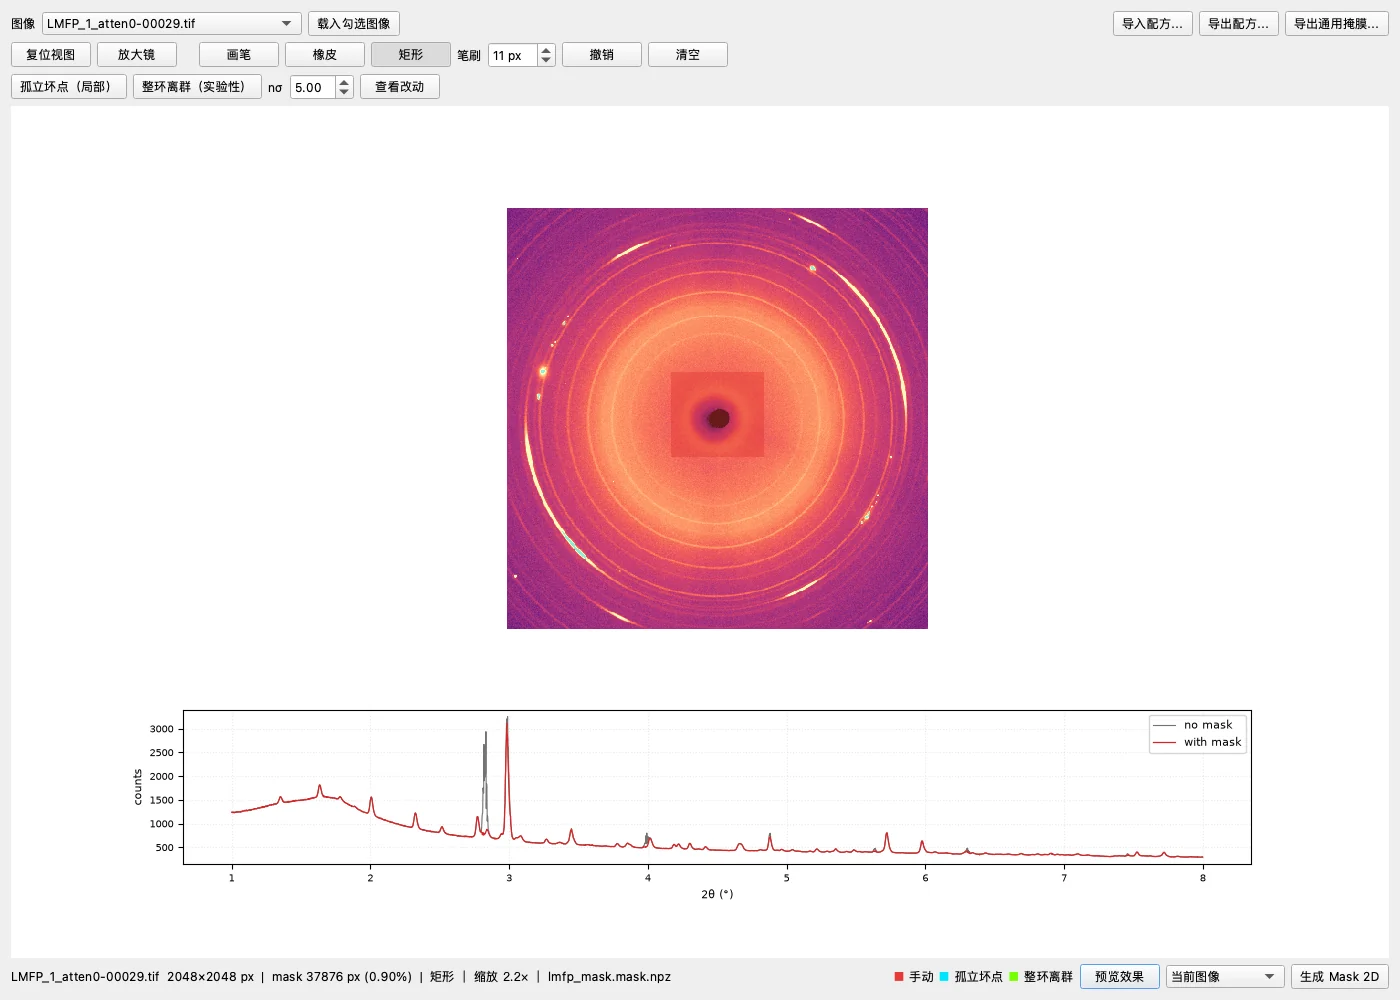
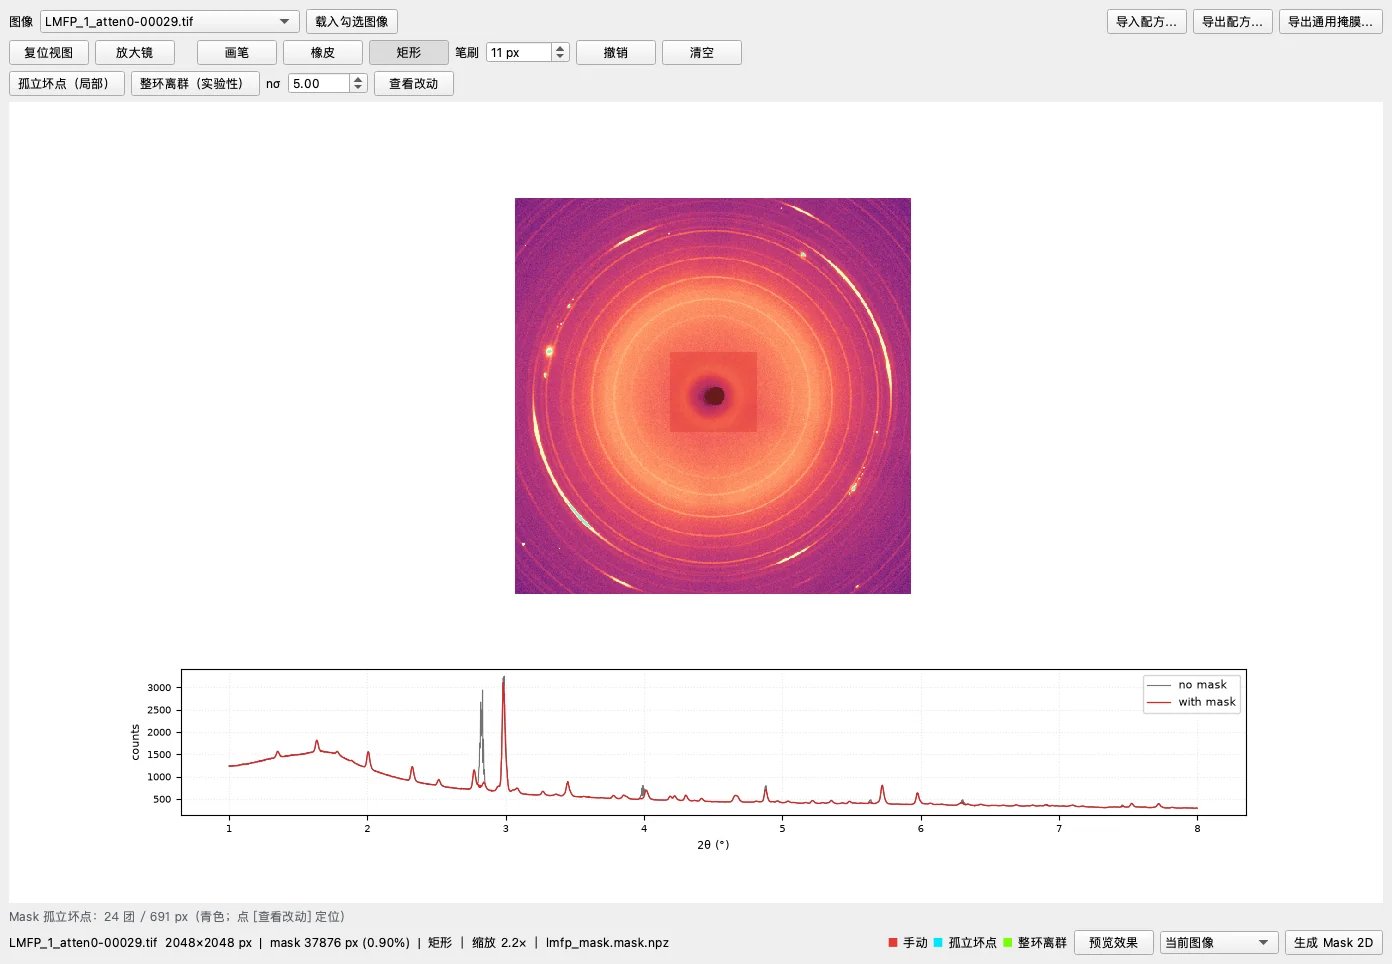
docs: refresh the Mask card on the showcase page
- use the workbench screenshot and rename the card to Mask 工作台
- update the test count to 1,100

diff --git a/docs/index.html b/docs/index.html
@@ -281,7 +281,7 @@
         <a class="btn ghost" href="https://github.com/xyyzzc3/xrd_toolkit">GitHub 仓库</a>
       </div>
       <div class="trust">
-        <span>1,094 tests</span>
+        <span>1,100 tests</span>
         <span>CI green</span>
         <span>Windows / macOS</span>
         <span>MIT</span>
@@ -346,7 +346,7 @@
       <div class="section-head">
         <div class="kicker">Showcase</div>
         <h2>实际跑出来的样子</h2>
-        <p>真数据截图，不是示意图：校准、背景、批量对比、全谱拟合、Mask 编辑器与 81 帧原位精修。</p>
+        <p>真数据截图，不是示意图：校准、背景、批量对比、全谱拟合、Mask 工作台与 81 帧原位精修。</p>
       </div>
       <div class="gallery">
         <figure class="shot">
@@ -366,8 +366,8 @@
           <figcaption><b>LaB₆ 全谱拟合</b>Le Bail 强度拟合，Rwp 4.24%，带差值曲线与布拉格峰位刻度。</figcaption>
         </figure>
         <figure class="shot">
-          <div class="img"><img src="assets/shot_mask.webp" width="1400" height="1000" loading="lazy" decoding="async" alt="Mask 编辑器：2D 图像与掩膜前后的 1D 谱"></div>
-          <figcaption><b>Mask 编辑器</b>画笔 / 矩形 / 孤立坏点检测，按来源配色；下方对比掩膜前后的 1D 谱，2.8° 的伪峰被去掉。</figcaption>
+          <div class="img"><img src="assets/shot_mask.webp" width="1392" height="964" loading="lazy" decoding="async" alt="Mask 工作台：2D 图像与掩膜前后的 1D 谱"></div>
+          <figcaption><b>Mask 工作台</b>画笔 / 矩形 / 孤立坏点检测，按来源配色；下方对比掩膜前后的 1D 谱，2.8° 的伪峰被去掉。</figcaption>
         </figure>
         <figure class="shot">
           <div class="img"><img src="assets/shot_insitu.webp" width="1650" height="1050" loading="lazy" decoding="async" alt="LMFP 81 帧原位三相精修趋势"></div>
